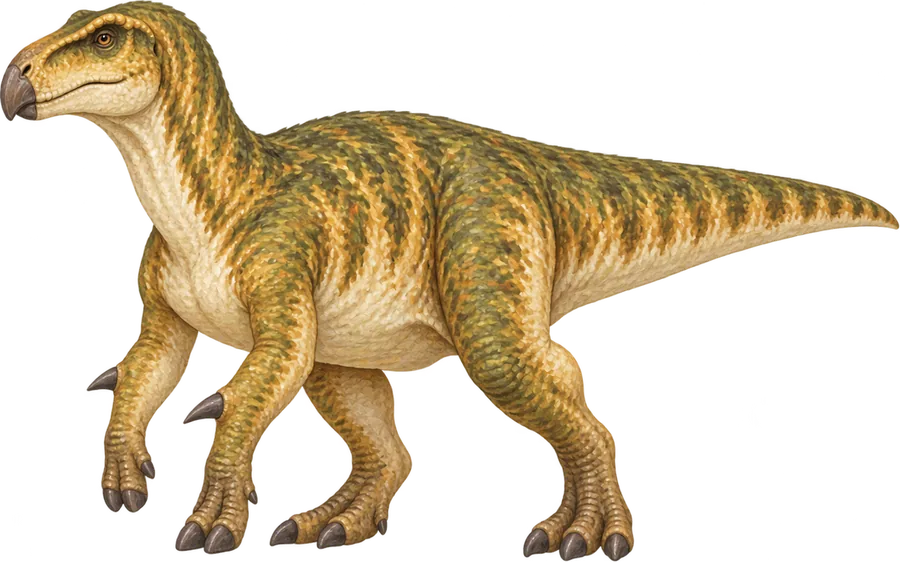
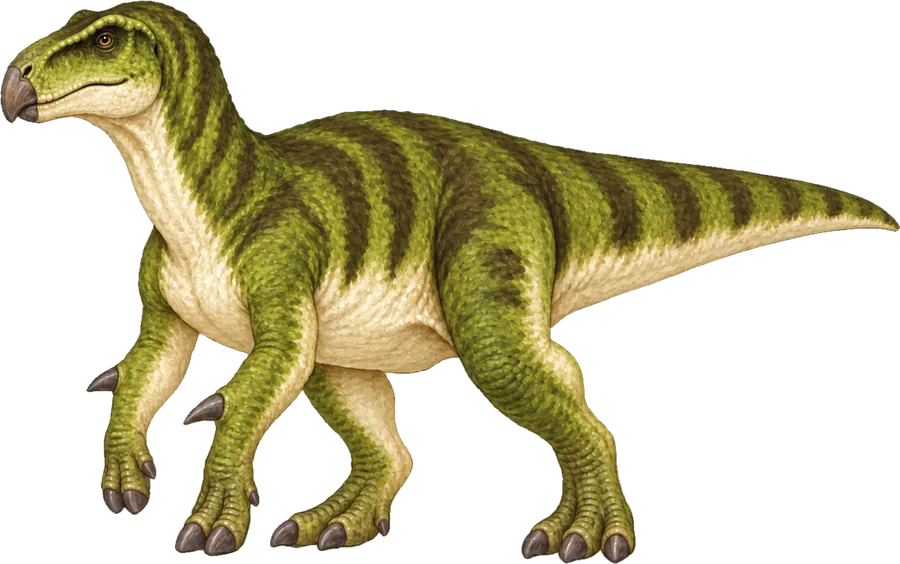
Bilder: 26 djur omfärgade, variation i stället för orange och ockra

Changed region(s): [[0.0, 0.0, 1.0, 1.0]]

diff --git a/HANDOFF.md b/HANDOFF.md
@@ -129,6 +129,27 @@ reviewedAt: 2026-10-03
 - **Verifierat** i Chromium 390×844 och 1024×768: barn och djur har samma skala (nio djur mätta), står på samma linje och ryms i rutan. Översikten: tryck, drag, släpp. `npm test`: 16 tester.
 - **Inte verifierat:** riktigt finger på översikten.
 
+## 2026-10-03: omfärgning av kortbilderna
+
+- **Varför:** alla 30 djur blev orange och ockra. Patrik bestämde variation som huvudregel. Färg per djur: `docs/research/dinosaur-colour.md` avsnitt 6. Briefer: `img-src/BRIEF-recolour.md` och `BRIEF-recolour-redo.md`.
+- **Gjort:** 26 djur omfärgade av Codex (`$imagegen` i EDIT-läge med originalet som mål, alltså samma teckning i ny färg). Inte omfärgade: Microraptor, Archaeopteryx, Mosasaurus, Plesiosaurus.
+- **Mappar (`img-src/`, bara på den här datorn):** `v1/` original (rör aldrig), `v2/` första omfärgningen, `v2b/` andra omgången för sju djur, `img-src/<id>.png` det som faktiskt konverterades, `review/` kontaktark.
+- **Omgång 3 kördes aldrig om.** Den avbrutna körningen hade redan genererat alla åtta bilder, det var bara kopieringen till `v2/` som dog av minnesbrist. De hämtades ur `~/.codex/generated_images/` enligt Codex egen slutrapport i `img-src/recolour-run.log`. Läs loggens sista rader innan en avbruten körning görs om.
+- **Andra omgången, sju djur:** allosaurus, argentinosaurus, carnotaurus, diplodocus, plateosaurus, protoceratops, therizinosaurus var fortfarande gyllenbruna. Orsak: briefens ord ("tawny", "sandy", "ochre", "mid brown") landar i samma ton som originalen. Omgörningen förbjöd orange och gult helt och slog över: sju grå djur.
+  - **Valt ur omgång 2 (kallare än researchfilens palett):** argentinosaurus (blek sten, brun sadel), diplodocus (mörk valnöt), plateosaurus (grädde med längsgående ränder), protoceratops (blek, mörk mask och kragkant).
+  - **Behållna ur omgång 1:** allosaurus (grå versionen gick inte att skilja från giganotosaurus), carnotaurus (enda gula med grå prickar), therizinosaurus (brunt stöds av släktingen, grå liknade gallimimus).
+  - Byta tillbaka ett djur: kopiera önskad fil från `v2/` eller `v2b/` till `img-src/<id>.png` och kör `convert-art.py <id>`.
+- **Kontroller (båda skriver en rad per bild och avslutar med fel):**
+  - `uv run --with pillow img-src/check-recolour.py`: kontur mot `v1/` (snitt genom union av de frilagda formerna, gräns 90 %) och kontaktark `img-src/review/sheet.png`. `V2=v2b` eller `V2=.` väljer mapp. Resultat: 26 av 26, lägst 96,4 %.
+  - `uv run --with pillow img-src/check-cards.py`: kortbildens silhuett mot den incheckade, och ark på mörk bakgrund `img-src/review/cards-dark.png`. Resultat: 26 av 26, lägst 94 %, bildstorlek inom 1 %.
+- **Fälla:** måttet "andel orange" i `check-recolour.py` räknar även brunt (samma färgton, bara mörkare). Det duger för att se att något hänt, inte för att godkänna. Ögat avgör.
+- **Fälla:** "inget orange alls" ger grått. Nästa gång: namnge den färg som ska in (blågrå, mossgrön, valnöt), inte den som ska bort.
+- **Granskat av Claude i liten storlek** (380 px per bild): inga tappade horn, plattor, klor eller fjädrar, ingen mark eller bakgrund. Inte granskat i full storlek. Patrik har inte sett bilderna.
+- **Inte gjort:**
+  - **Ikonerna** (`public/icons/`, favicon) är gjorda ur den gamla orange T. rex-bilden. `tools/make-icons.py` gör om dem.
+  - **`heightM`** behöver inte ses över: posen är densamma.
+  - **Versionerade bildnamn.** Bilderna har fasta namn, så en besökare med appen installerad får gamla bilder vid första laddningen efter en deploy och nya vid nästa (se avsnittet om offline). Den riktiga lösningen är att låta Vite ge bilderna innehållshash i namnet: flytta `public/img/` till `src/img/` och hämta adresserna med `import.meta.glob('./img/*.webp', { eager: true, query: '?url', import: 'default' })`. Det rör sju ställen i `src/` och två skript i `tools/`, och gjordes inte här eftersom sessionen bara fick röra bilder och dokument.
+
 ## Köra
 
 - `npm run dev`: utvecklingsserver.

diff --git a/BACKLOG.md b/BACKLOG.md
@@ -21,6 +21,12 @@ Uppifrån och ned. Beslut och ordlista står i `CONTEXT.md`, läget i `HANDOFF.m
 - Portera Sipdecks `promoteDeck` om nästa kort syns hoppa på riktig telefon (markerat `ponytail:` i `src/main.ts`).
 - Palett och typsnitt sätts efter vald bildstil (`src/style.css` är provisorisk).
 - Källa för Pteranodon är Wikipedia: byt till museum när en hittas som går att kontrollera.
+- **En rad på kortets baksida om att färgen är en gissning** (Patrik 2026-10-03, inte byggd). Samma grepp som raden vid ljudet ("Ingen har hört djuret på riktigt"). Tre nivåer, ett nytt fält per djur i katalogen. Vilken nivå varje djur har står i kolumnen Tag i `docs/research/dinosaur-colour.md` avsnitt 6, texterna i avsnitt 7:
+  - **Känt** (Microraptor, Archaeopteryx): "Forskare har hittat spår av färg i fossilen, så de här färgerna vet vi faktiskt en hel del om." / "Scientists have found traces of colour in the fossils, so we really do know quite a lot about these colours."
+  - **Från släktingar:** "Ingen har hittat färgen hos just det här djuret, men vi vet hur nära släktingar såg ut och har utgått från dem." / "Nobody has found the colour of this animal itself, but we know what close relatives looked like and have used them as a guide."
+  - **Gissning:** "Ingen vet vilken färg det här djuret hade. Färgerna är en gissning som bygger på djur som lever i dag." / "Nobody knows what colour this animal was. The colours are a guess based on animals that are alive today."
+  - Extra rad för Archaeopteryx och Diplodocus, där forskarna är oense: "Här är forskarna inte överens än." / "Scientists do not agree about this one yet."
+  - Fyra djur fick vid omfärgningen en kallare ton än researchfilens palett (se `HANDOFF.md`, omfärgningen). Nivån påverkas inte, alla fyra är redan gissning eller från släktingar.
 - Uppläsning av kortens texter (v2).
 - Fria inspelningar av struts och kasuar saknas (stod i beslutet om ljud). Hittas några med CC0 eller public domain: lägg dem i `audio-src/sources.json` och byt ut duva och järpe i recepten.
 

diff --git a/CONTEXT.md b/CONTEXT.md
@@ -22,7 +22,7 @@ Dinosauriekort för barn 3 till 10 år, som också ska hålla som litet uppslags
 | Uttal | Färdiga ljudklipp, 30 namn × 2 språk. Ingen tjänst och inget konto: Piper körs lokalt med rösterna `sv_SE-nst` (CC0) och `en_GB-cori` (public domain). Klippen får publiceras utan källhänvisning. Uttalet skrivs som fonetisk skrift i `tools/make-names.py`, inte som text. |
 | Fakta | Varje kort har källa i datat. Osäkert (färg, läte, fjädrar) skrivs som "forskare tror". Patrik stickprovar. |
 | Bilder | En frilagd bild per djur. Används på kort, i scen och som silhuett (silhuetten görs i CSS). |
-| Bildstil | Patrik valde `03-gouache-picturebook` ur stilrunda 1 (2026-10-03): detaljerad, naturtrogen bilderboksmålning i varma jordfärger. Referensbilder är T. rex och Velociraptor. En alternativ "söt" stil som går att välja i appen ligger i backloggen, mycket senare. |
+| Bildstil | Patrik valde `03-gouache-picturebook` ur stilrunda 1 (2026-10-03): detaljerad, naturtrogen bilderboksmålning. Referensbilder för teckningen är T. rex och Velociraptor. **Färg (Patrik 2026-10-03): variation mellan djuren är huvudregeln**, historiskt rätt är bra men inte nödvändigt. Den första uppsättningen blev orange och ockra rakt igenom och färgades om: varje djur har en egen palett (brunt, grått, blågrått, grönt, svart, vitt, med färg på kammar, kragar och plattor), som utgår från `docs/research/dinosaur-colour.md` avsnitt 6. Teckningen ändras inte vid omfärgning, så silhuetterna ligger fast. En alternativ "söt" stil som går att välja i appen ligger i backloggen, mycket senare. |
 | Stack | Vite + TypeScript `strict`, inget ramverk. Tester med `node --test`. |
 | Host | GitHub Pages, `buildapp.se/dinodeck/`, repo `buildapp-se/dinodeck`. Bara den hosten. |
 | Storlek | Detaljvyn visar djuret som silhuett bredvid ett barn på 1,2 m, i samma skala. Djuret skalas efter höjd (`heightM`), inte längd: bilderna är målade snett framifrån. |
